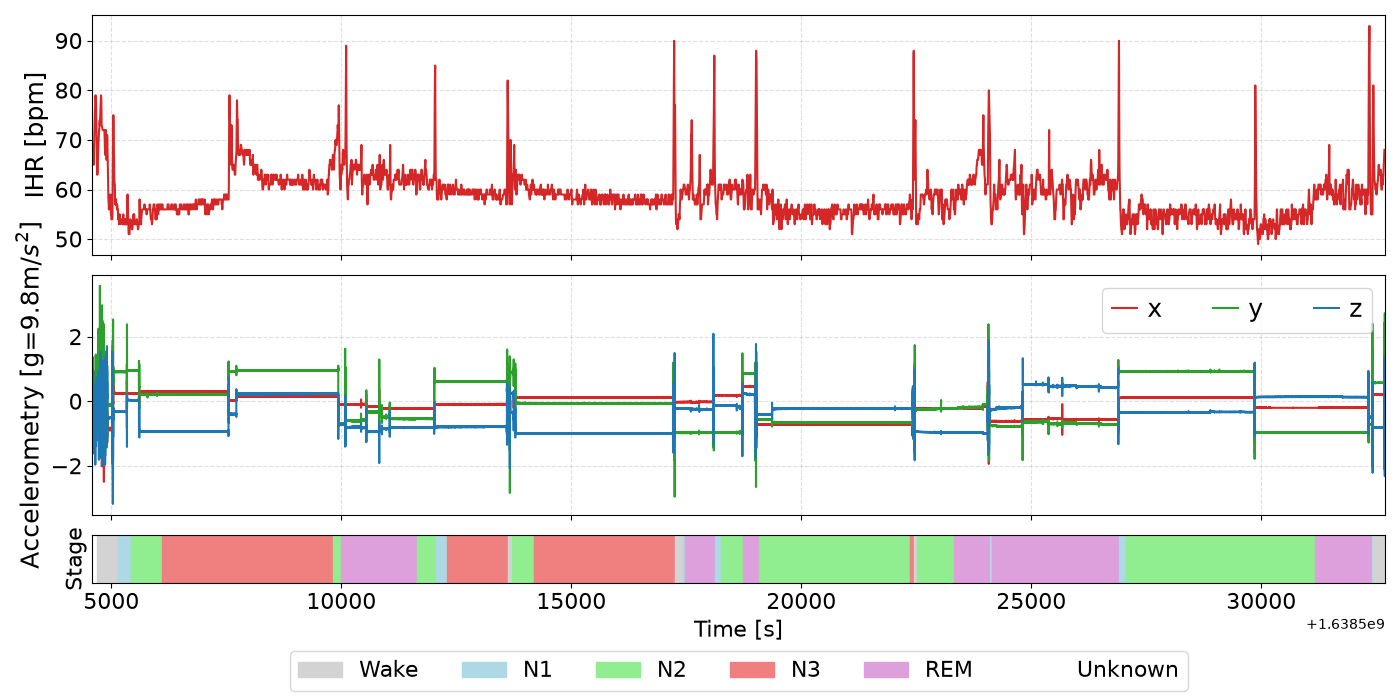
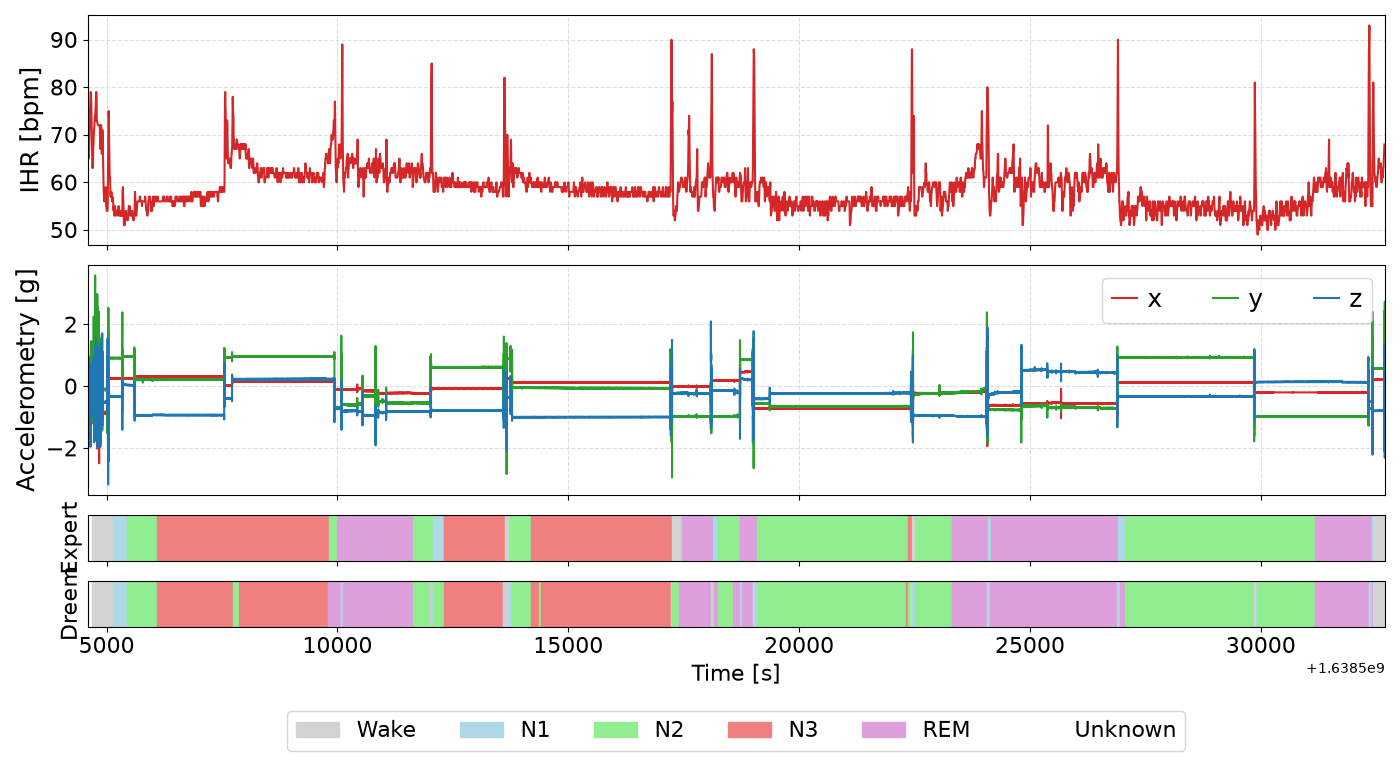
dreem label en night overview

diff --git a/src/plots.py b/src/plots.py
@@ -23,14 +23,14 @@ STAGE_COLORS = {
 STAGE_NAMES = {0: 'Wake', 1: 'N1', 2: 'N2', 3: 'N3', 4: 'REM', 5: 'Unknown'}
 
 def _draw_night_overview(night_data: pd.DataFrame, fontsize_scale: float = 1.0):
-    hr, motion, _, expert_labels, rec_start = night_data
+    hr, motion, dreem_labels, expert_labels, rec_start = night_data
 
     label_fs = 14 * fontsize_scale
     tick_fs = 12 * fontsize_scale
     legend_fs = 14 * fontsize_scale
     stage_legend_fs = 12 * fontsize_scale
 
-    fig, ax = plt.subplots(3, 1, figsize=(14, 7), sharex=True, gridspec_kw={'height_ratios': [3, 3, 0.6]})
+    fig, ax = plt.subplots(4, 1, figsize=(14, 7.6), sharex=True, gridspec_kw={'height_ratios': [3, 3, 0.6, 0.6]})
 
     ax[0].plot(hr['Timestamp'], hr['hr'], color='tab:red')
     ax[1].plot(motion['Timestamp'], motion['x'], label='x', color='tab:red')
@@ -38,7 +38,7 @@ def _draw_night_overview(night_data: pd.DataFrame, fontsize_scale: float = 1.0):
     ax[1].plot(motion['Timestamp'], motion['z'], label='z', color='tab:blue')
 
     ax[0].set_ylabel('IHR [bpm]', fontsize=label_fs)
-    ax[1].set_ylabel(r'Accelerometry [g=9.8m/$s^2$]', fontsize=label_fs)
+    ax[1].set_ylabel('Accelerometry [g]', fontsize=label_fs)
     ax[0].tick_params(axis='both', labelsize=tick_fs)
     ax[1].tick_params(axis='both', labelsize=tick_fs)
 
@@ -51,22 +51,31 @@ def _draw_night_overview(night_data: pd.DataFrame, fontsize_scale: float = 1.0):
         t1 = t0 + epoch_len
         ax[2].axvspan(t0, t1, color=STAGE_COLORS[label], zorder=0)
 
+    for i, label in enumerate(dreem_labels):
+        t0 = start + i * epoch_len
+        t1 = t0 + epoch_len
+        ax[3].axvspan(t0, t1, color=STAGE_COLORS[label], zorder=0)
+
     ax[2].set_yticks([])
     ax[2].tick_params(axis='both', labelsize=tick_fs)
-    ax[2].set_ylabel('Stage', fontsize=tick_fs)
+    ax[2].set_ylabel('Expert', fontsize=tick_fs)
+
+    ax[3].set_yticks([])
+    ax[3].tick_params(axis='both', labelsize=tick_fs)
+    ax[3].set_ylabel('Dreem', fontsize=tick_fs)
 
     legend_patches = [mpatches.Patch(color=c, label=STAGE_NAMES[s]) for s, c in STAGE_COLORS.items()]
-    ax[2].legend(handles=legend_patches, loc='upper center', bbox_to_anchor=(0.5, -1.2), ncol=6, fontsize=stage_legend_fs)
+    ax[3].legend(handles=legend_patches, loc='upper center', bbox_to_anchor=(0.5, -1.6), ncol=6, fontsize=stage_legend_fs)
 
     ax[1].legend(loc='upper right', ncol=3, fontsize=legend_fs, handlelength=1, handletextpad=0.4)
     ax[0].grid(True, alpha=0.4, linestyle='--')
     ax[1].grid(True, alpha=0.4, linestyle='--')
 
-    ax[2].set_xlabel('Time [s]', fontsize=tick_fs)
+    ax[3].set_xlabel('Time [s]', fontsize=tick_fs)
 
     t_min = min(hr['Timestamp'].min(), motion['Timestamp'].min())
     t_max = max(hr['Timestamp'].max(), motion['Timestamp'].max())
-    ax[2].set_xlim(t_min, t_max)
+    ax[3].set_xlim(t_min, t_max)
 
     plt.tight_layout()
 

diff --git a/src/data.py b/src/data.py
@@ -88,7 +88,6 @@ class EDA:
 
         return np.concatenate(expert_labels), np.concatenate(dreem_labels)
 
-    
 class DataSet(torch.utils.data.Dataset):
     '''
     Clase para el manejo de splits/batches para el entrenamiento de redes